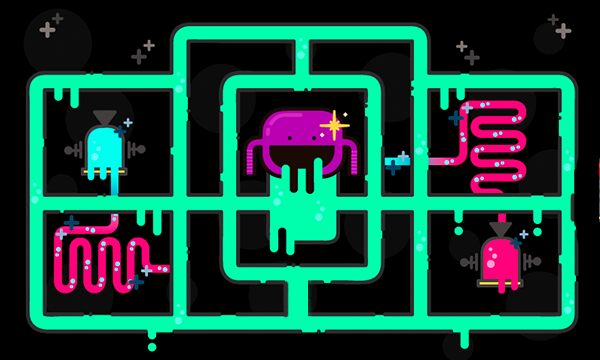
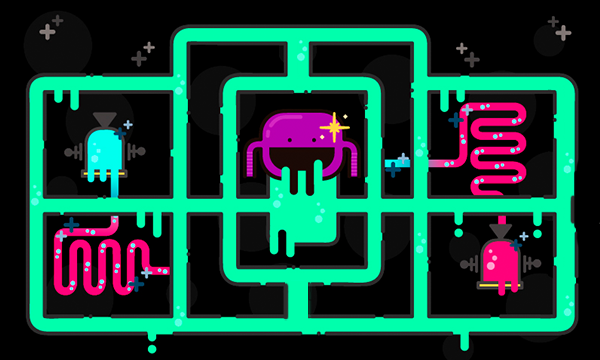
Sprites de moneda y barra de vida, nueva clase para barra de vida, limites en tmx, player vector constructor

diff --git a/core/src/mx/heroesofanzu/game/screens/PlayScreen.java b/core/src/mx/heroesofanzu/game/screens/PlayScreen.java
@@ -78,7 +78,7 @@ public class PlayScreen extends MyScreen {
 		width = getWidth();
 		height = getHeight();
 		popSound = Gdx.audio.newSound(Gdx.files.internal("sounds/pop.mp3"));
-		//hud = new Hud(getViewport(), batch);
+		hud = new Hud(getViewport(), batch);
 	}
 
 	/**
@@ -110,7 +110,7 @@ public class PlayScreen extends MyScreen {
 		for(Body b : alarms) {
 			ConeLight coneLight = new ConeLight(rayHandler, 200, Color.MAGENTA, 60, width/2, height/2,0, 40);
 			coneLight.attachToBody(b);
-			attachLightToBody(b, Color.RED, 40);
+			attachLightToBody(b, Color.RED, 80);
 			b.setActive(false);
 		}
 	}
@@ -167,8 +167,7 @@ public class PlayScreen extends MyScreen {
 			Rectangle rect = ((RectangleMapObject) object).getRectangle();
 			Sprite s = new Sprite(new Texture("coin.png"));
 			s.setPosition(rect.getX() + 4, rect.getY() + 4);
-			s.setSize(10, 10);
-			s.setAlpha(0.95f);
+			s.setSize(7, 7);
 			coins.add(s);
 		}
 
@@ -188,8 +187,8 @@ public class PlayScreen extends MyScreen {
 		setAlarms();
 
 		// Set player.
-		playerTest = new Player(this, width / 2, height / 2);
-		attachLightToBody(playerTest.getBody(), Color.BLUE, 80);
+		playerTest = new Player(this, width / 2, height / 2 - 10);
+		attachLightToBody(playerTest.getBody(), Color.BLUE, 60);
 	}
 
 	@Override
@@ -210,7 +209,7 @@ public class PlayScreen extends MyScreen {
 			Sprite s = powerIterator.next();
 			s.draw(batch);
 			if (playerTest.getBoundingRectangle().overlaps(s.getBoundingRectangle())) {
-				//hud.setPowerUp(new PowerUp("velocity.png", true));
+				hud.setPowerUp(new PowerUp("velocity.png", true));
 				//playerTest.applyPowerUp();
 				powerIterator.remove();
 			}
@@ -223,7 +222,7 @@ public class PlayScreen extends MyScreen {
 			s.draw(batch);
 			
 			if(playerTest.getBoundingRectangle().overlaps(s.getBoundingRectangle())) {
-				//hud.tickScore();
+				hud.tickScore();
 				coinsIterator.remove();
 				popSound.play(0.08f);
 			}
@@ -243,6 +242,7 @@ public class PlayScreen extends MyScreen {
 
 			if(o.getBoundingRectangle().overlaps(playerTest.getBoundingRectangle())) {
 				world.destroyBody(o.getBody());
+				hud.getHealthBar().healthReduction(0.2f);
 				//hud.getHpBar().healthReduction(20);
 				iterator.remove();
 			}
@@ -265,7 +265,7 @@ public class PlayScreen extends MyScreen {
 		rayHandler.setCombinedMatrix(getCamera());
 		rayHandler.updateAndRender();
 		playerTest.update(delta);
-		//hud.update(delta);
+		hud.update(delta);
 	}
 
 	@Override

diff --git a/core/src/mx/heroesofanzu/game/scenes/Hud.java b/core/src/mx/heroesofanzu/game/scenes/Hud.java
@@ -33,12 +33,12 @@ public class Hud implements MediaDisposer.Disposable {
 	private Sprite bubble;
 	private PowerUp powerUp;
 
-	private HealthPool hpBar;
+	private HealthBar healthBar;
 
 	public Hud(Viewport viewport, SpriteBatch batch) {
 		this.batch = batch;
 		score = 0;
-		hpBar = new HealthPool(2, 200, batch);
+		healthBar = new HealthBar();
 
 		drawPowerUpBubble();
 
@@ -50,10 +50,8 @@ public class Hud implements MediaDisposer.Disposable {
 
 		scoreLabel = new Label(String.format("Score: %04d ", score), new Label.LabelStyle(new BitmapFont(), Color.WHITE));
 		scoreLabel.setFontScale(0.5f);
-		table.add(scoreLabel).top().right().pad(PADDING).padRight(50).row();
-
-		table.add(hpBar.getHpLabel()).top().left().padTop(-25).width(stage.getWidth() - hpBar.getHpX()).height(stage.getHeight()-hpBar.getHpY());
-
+		table.add(healthBar).left().top().pad(PADDING).padTop(35);
+		//table.add(scoreLabel).right().top().pad(PADDING).padRight(50);
 
         table.row().width(50);
 
@@ -83,6 +81,13 @@ public class Hud implements MediaDisposer.Disposable {
 	}
 
 	/**
+	 * @return Get health bar.
+	 */
+	public HealthBar getHealthBar() {
+		return healthBar;
+	}
+
+	/**
 	 * @return Get actual power up
 	 */
 	public PowerUp getPowerUp() {
@@ -101,7 +106,6 @@ public class Hud implements MediaDisposer.Disposable {
      */
 	public void update(float dt){
 		scoreLabel.setText(String.format("Score: %04d ", score));
-		hpBar.update();
 
 		stage.draw();
 		batch.begin();
@@ -109,13 +113,9 @@ public class Hud implements MediaDisposer.Disposable {
 			powerUp.sumCounter(dt);
 			powerUp.draw(batch);
 		}
+		healthBar.draw(batch, 1.0f);
 		bubble.draw(batch);
-		hpBar.draw();
 		batch.end();
-	}
-
-	public HealthPool getHpBar() {
-		return hpBar;
 	}
 
 	@Override

diff --git a/core/src/mx/heroesofanzu/game/scenes/HealthBar.java b/core/src/mx/heroesofanzu/game/scenes/HealthBar.java
@@ -1,0 +1,48 @@
+package mx.heroesofanzu.game.scenes;
+
+import com.badlogic.gdx.graphics.Texture;
+import com.badlogic.gdx.graphics.g2d.Batch;
+import com.badlogic.gdx.graphics.g2d.NinePatch;
+import com.badlogic.gdx.graphics.g2d.Sprite;
+import com.badlogic.gdx.graphics.g2d.TextureRegion;
+import com.badlogic.gdx.scenes.scene2d.Actor;
+import com.badlogic.gdx.scenes.scene2d.utils.NinePatchDrawable;
+
+/**
+ * Created by jesusmartinez on 20/05/16.
+ */
+public class HealthBar extends Actor {
+
+	private Sprite loadingBarForeground;
+	private Sprite loadingBar;
+	private float currentHP;
+
+	public HealthBar() {
+		Texture foreground = new Texture("lifebar/healthbar_foreground.png");
+		Texture bar = new Texture("lifebar/healthbar_power.png");
+		currentHP = 1.0f;
+
+		loadingBarForeground = new Sprite(foreground);
+		loadingBar = new Sprite(bar);
+
+		loadingBarForeground.setSize(95, 30);
+		loadingBar.setSize(95, 30);
+	}
+
+	/**
+	 * Reduce currentHP
+	 * @param damage
+	 */
+	public void healthReduction(float damage) {
+		if(currentHP > 0)
+		currentHP -= damage;
+	}
+
+	@Override
+	public void draw(Batch batch, float parentAlpha) {
+
+		loadingBar.setSize(95*currentHP, 30);
+		loadingBar.draw(batch);
+		loadingBarForeground.draw(batch);
+	}
+}

diff --git a/core/src/mx/heroesofanzu/game/sprites/Player.java b/core/src/mx/heroesofanzu/game/sprites/Player.java
@@ -19,7 +19,7 @@ public class Player extends Entity {
 
 	public Player(PlayScreen screen, float x, float y) {
 		super(screen, x, y);
-		direction = new Vector2(16f, 0);
+		direction = new Vector2(0, 0);
 		velocity = 0;
 	}
 
